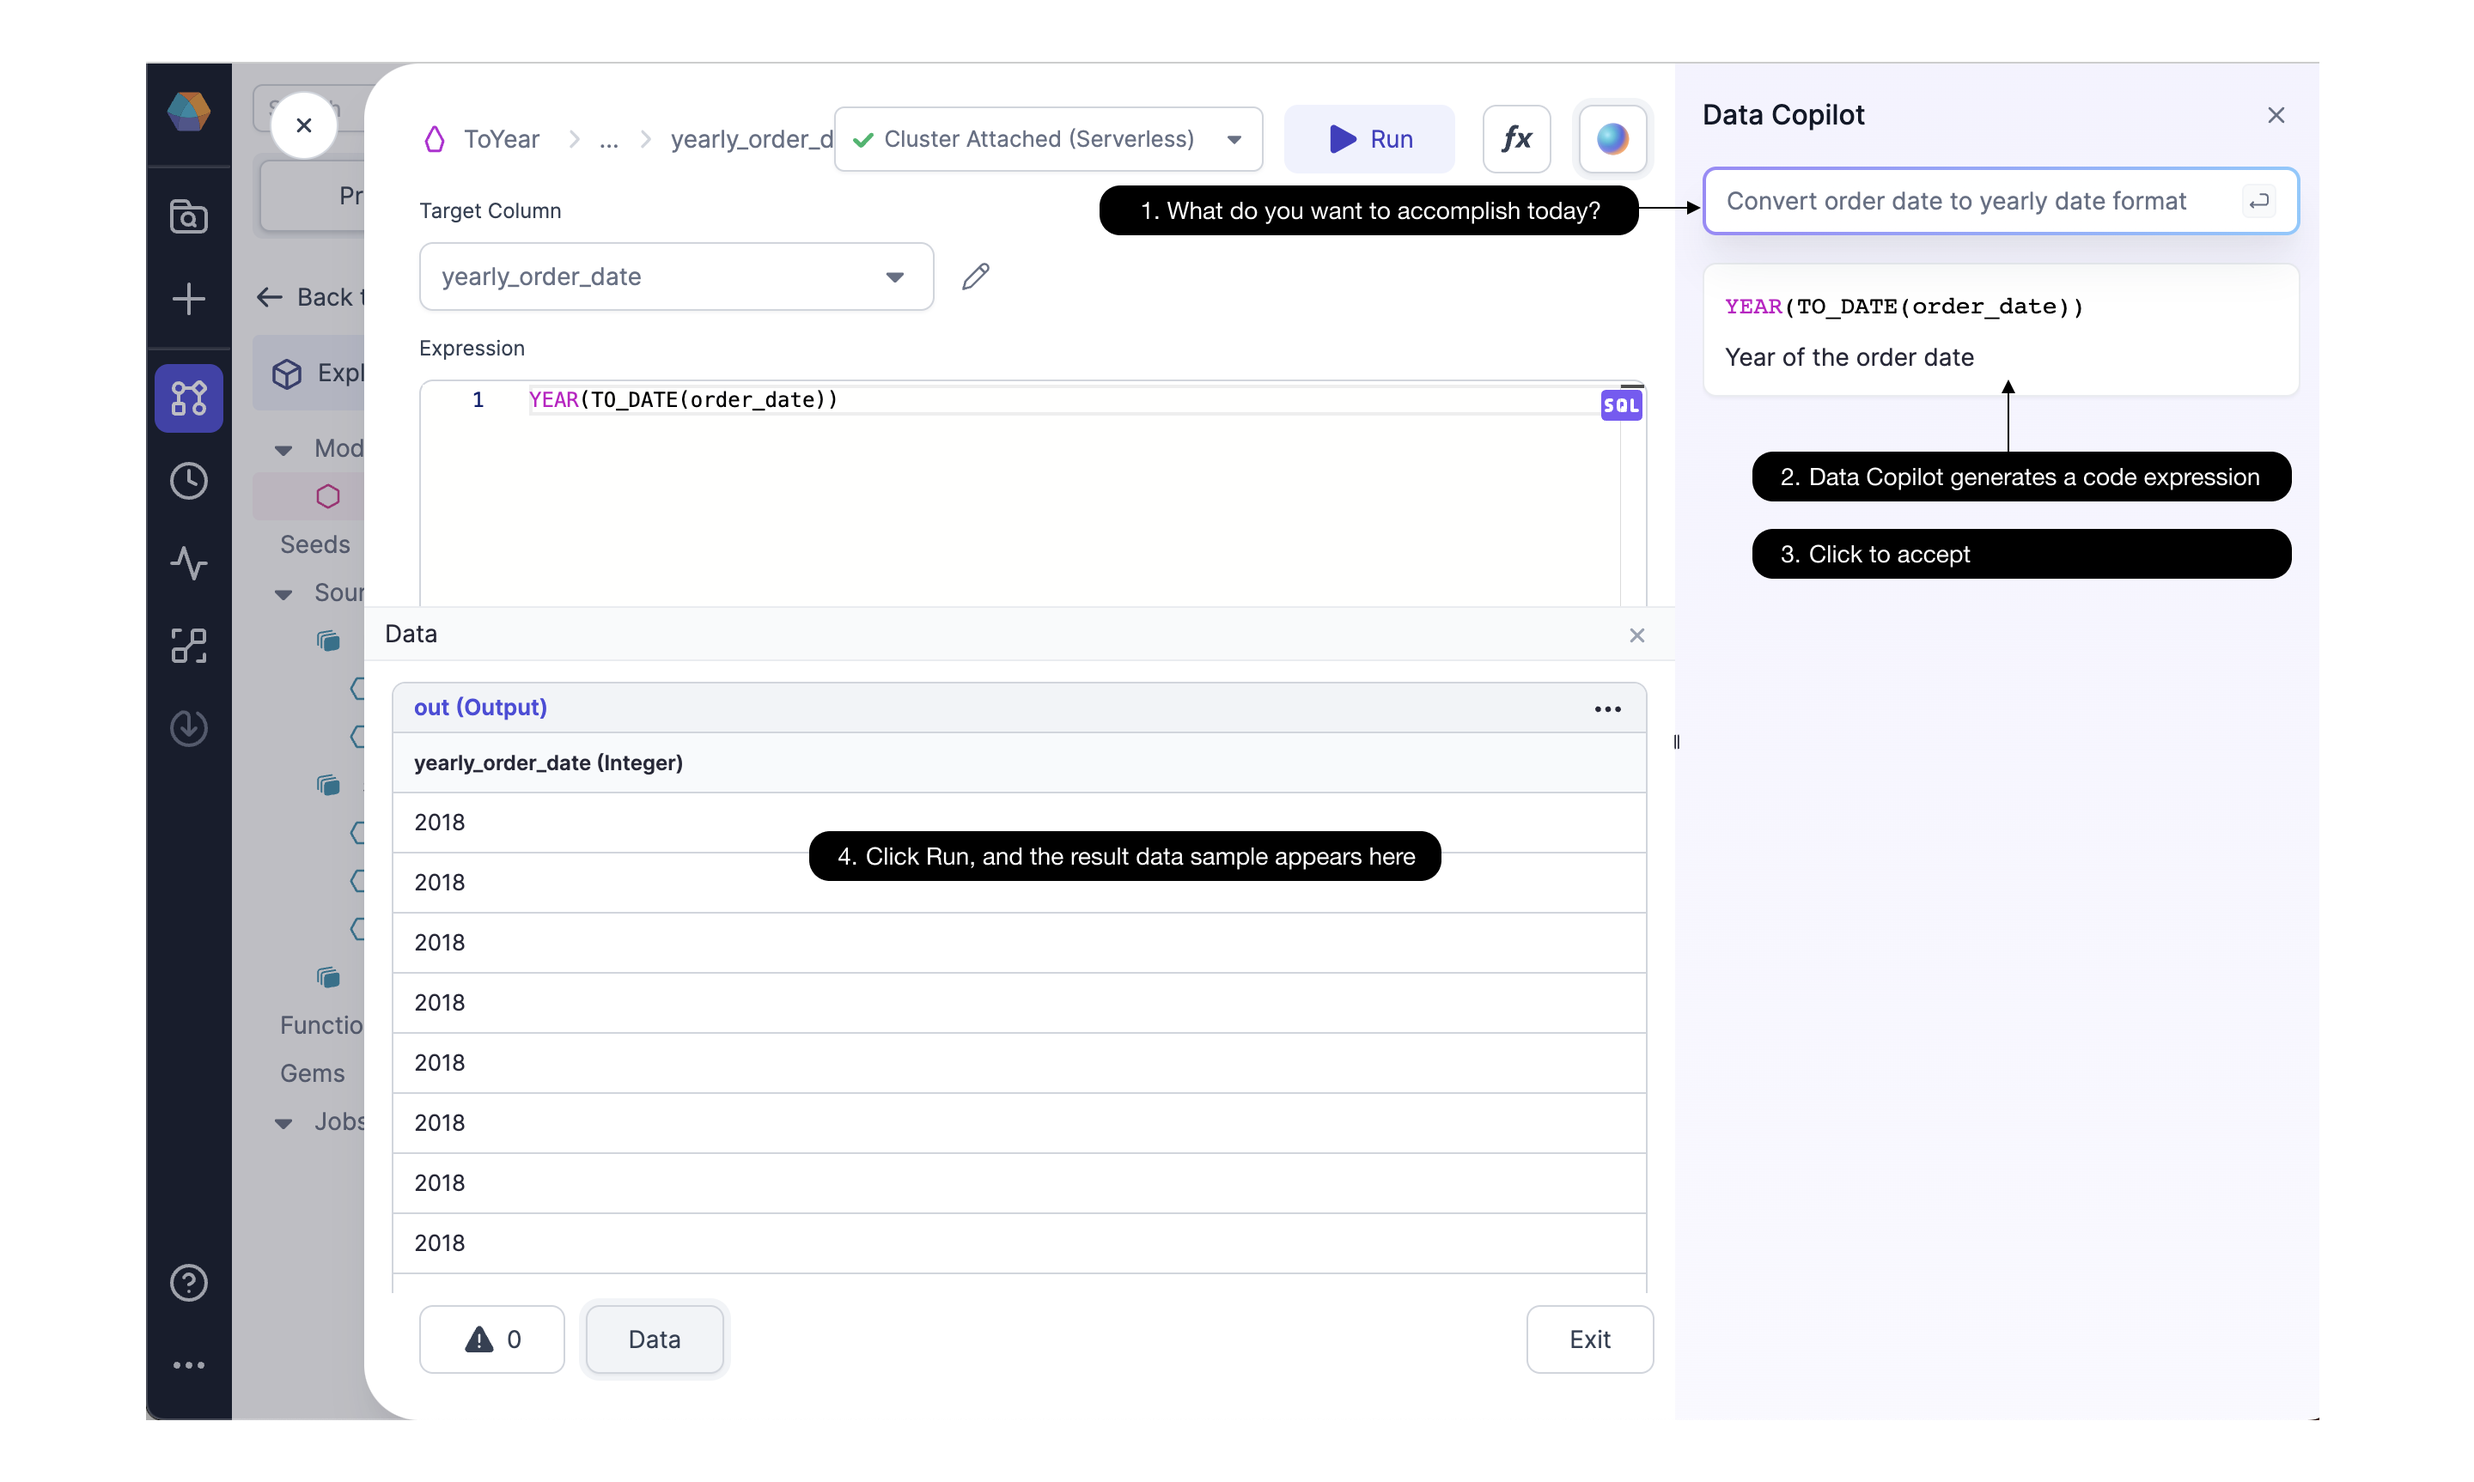
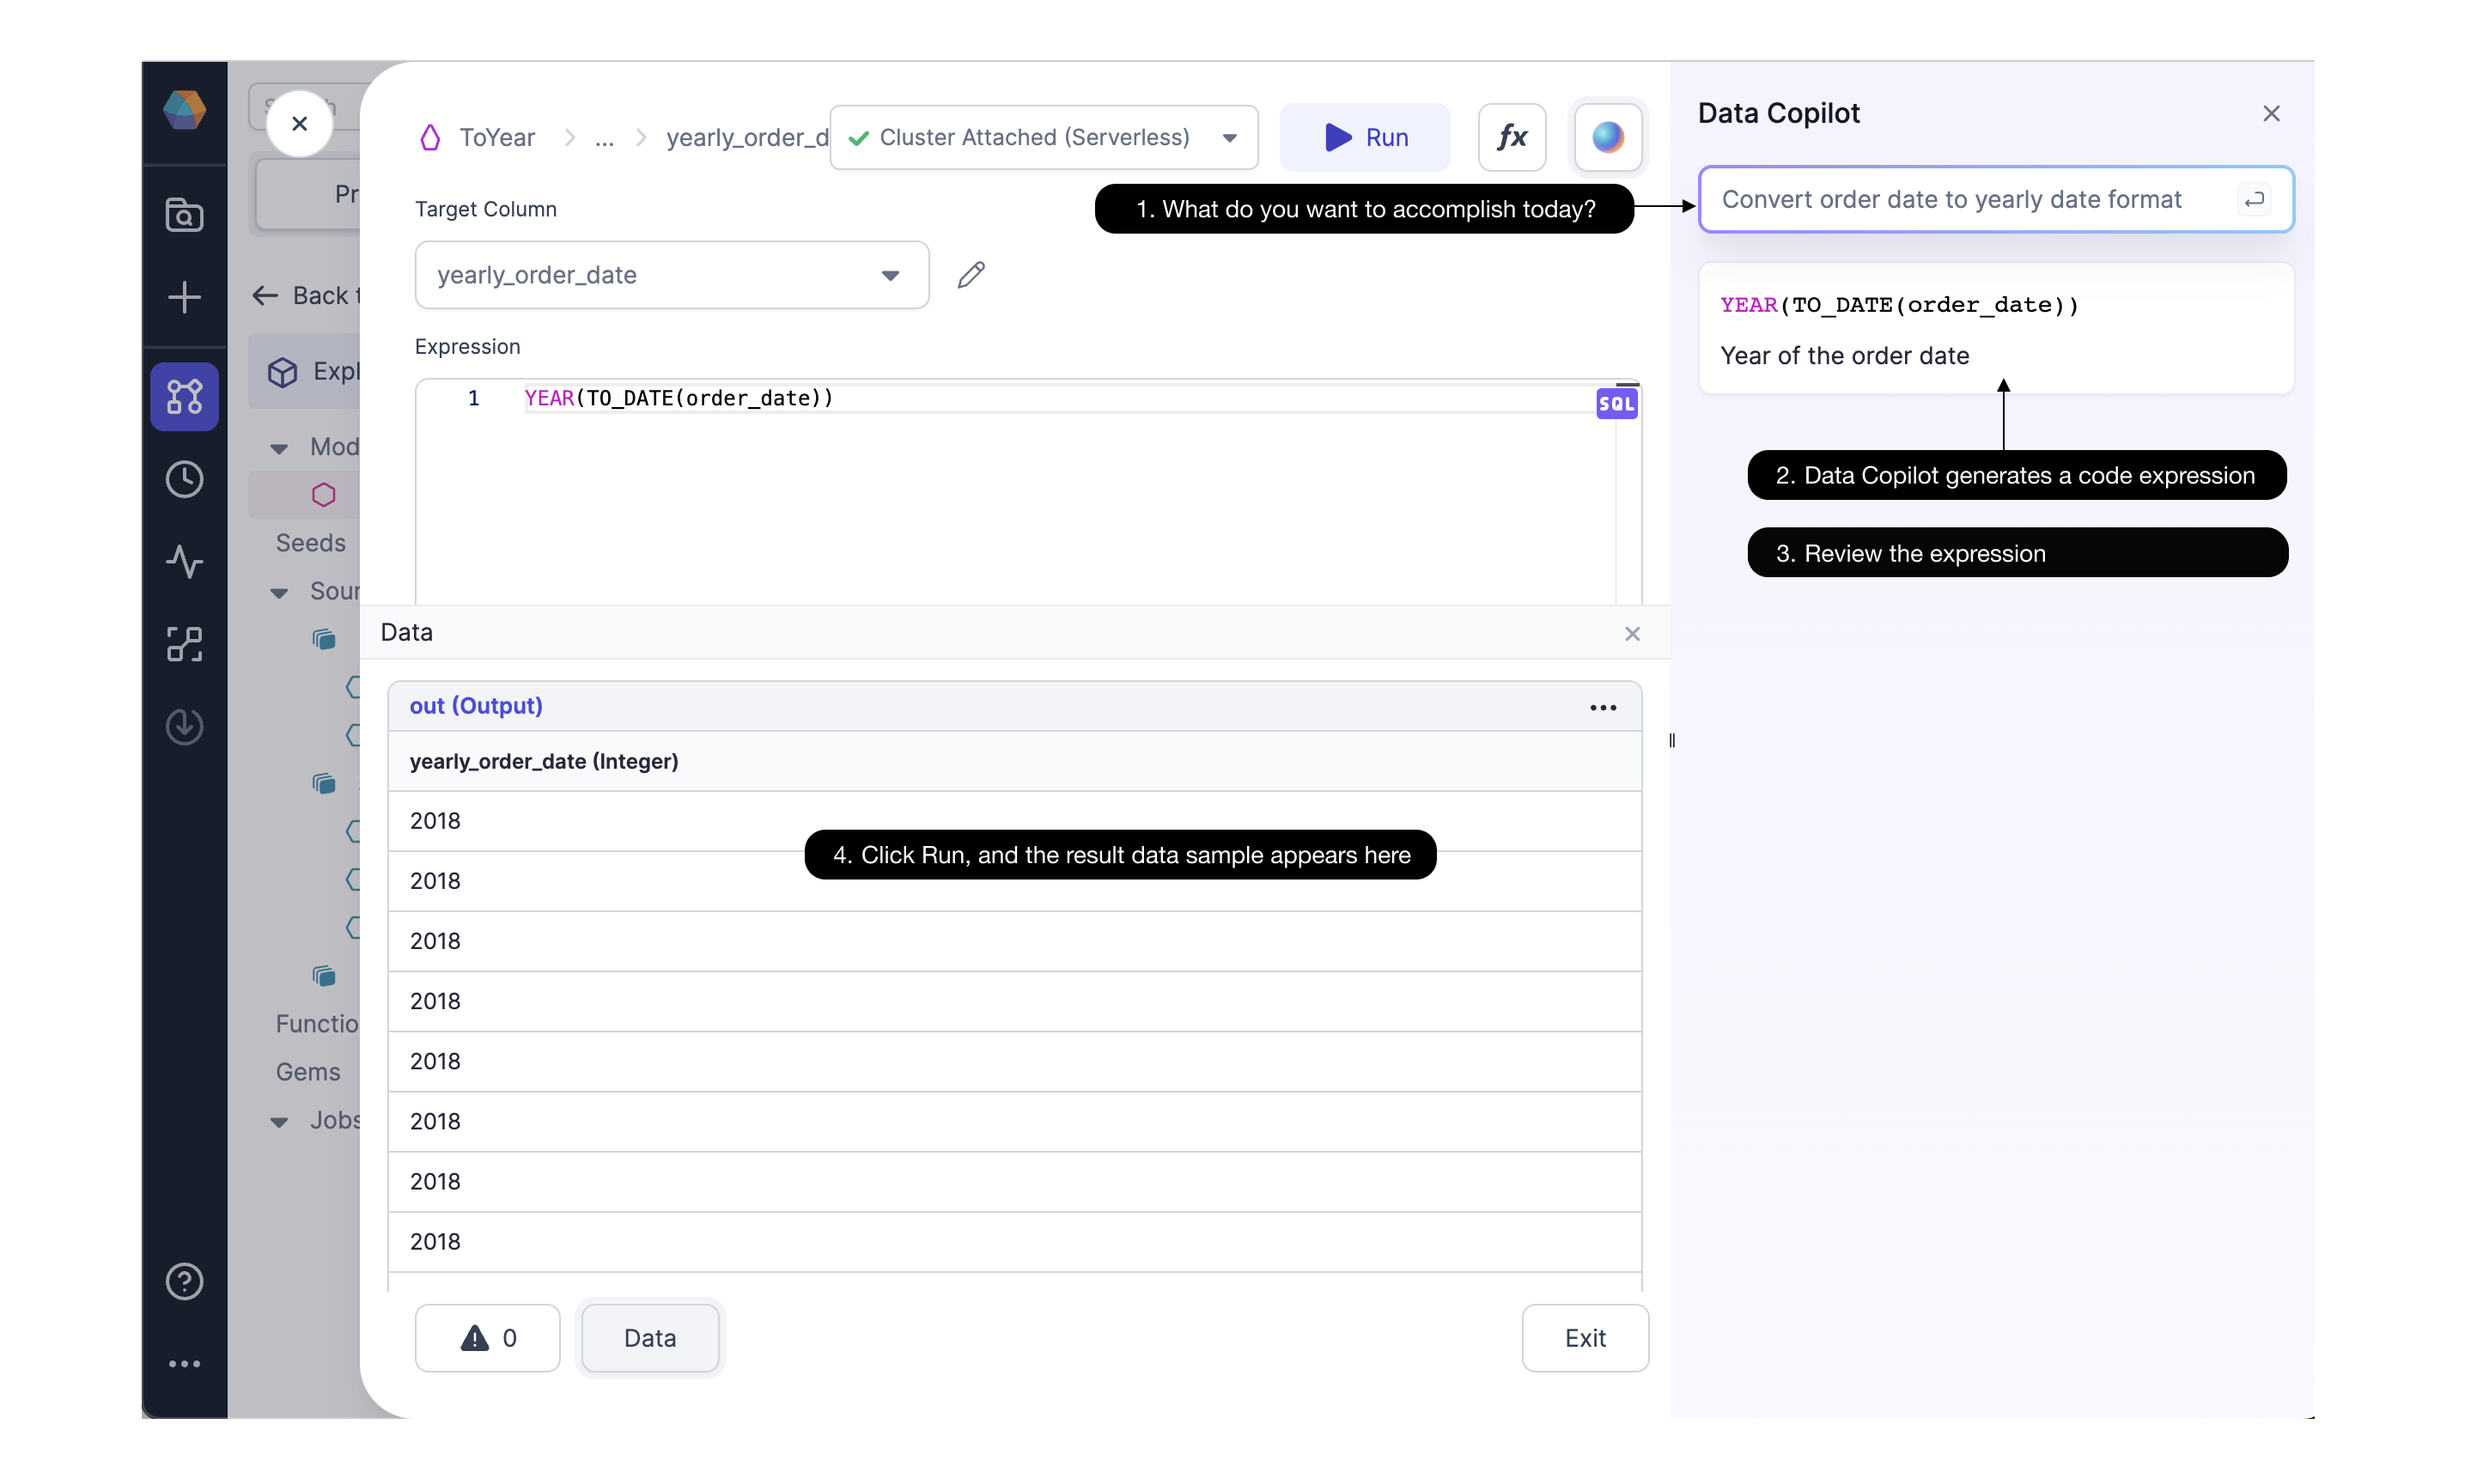
Update modify and suggest expressions sections

diff --git a/docs/concepts/copilot/copilot-ai-capabilities.md b/docs/concepts/copilot/copilot-ai-capabilities.md
@@ -49,7 +49,7 @@ The following example uses Data Copilot to help start a Pipeline:
 
 ### Modify an existing Pipeline
 
-You can also call Data Copilot to modify an existing Model. Type a new text prompt, and Data Copilot will suggest a new sequence of data transformations.
+You can also call Data Copilot to modify an existing Model. Type a new text prompt, and Data Copilot will suggest a new sequence of data transformations. You don't necessarily have to select where you want to make your modification for Data Copilot to make its suggestion.
 
 <div class="wistia_responsive_padding" style={{padding:'56.25% 0 0 0', position:'relative'}}>
 <div class="wistia_responsive_wrapper" style={{height:'100%',left:0,position:'absolute',top:0,width:'100%'}}>
@@ -83,7 +83,7 @@ Within our [advanced Expression Builder](/Spark/expression-builder) you can:
 
 1. Type an English text prompt.
 2. Data Copilot generates a code expression for a particular column.
-3. Click to accept the code expression or try again with a different prompt.
+3. Review the code expression, and if you'd like, try again with a different prompt.
 4. Run the Pipeline up to and including this Gem, and observe the resulting data sample.
 
 ## Generate with AI
